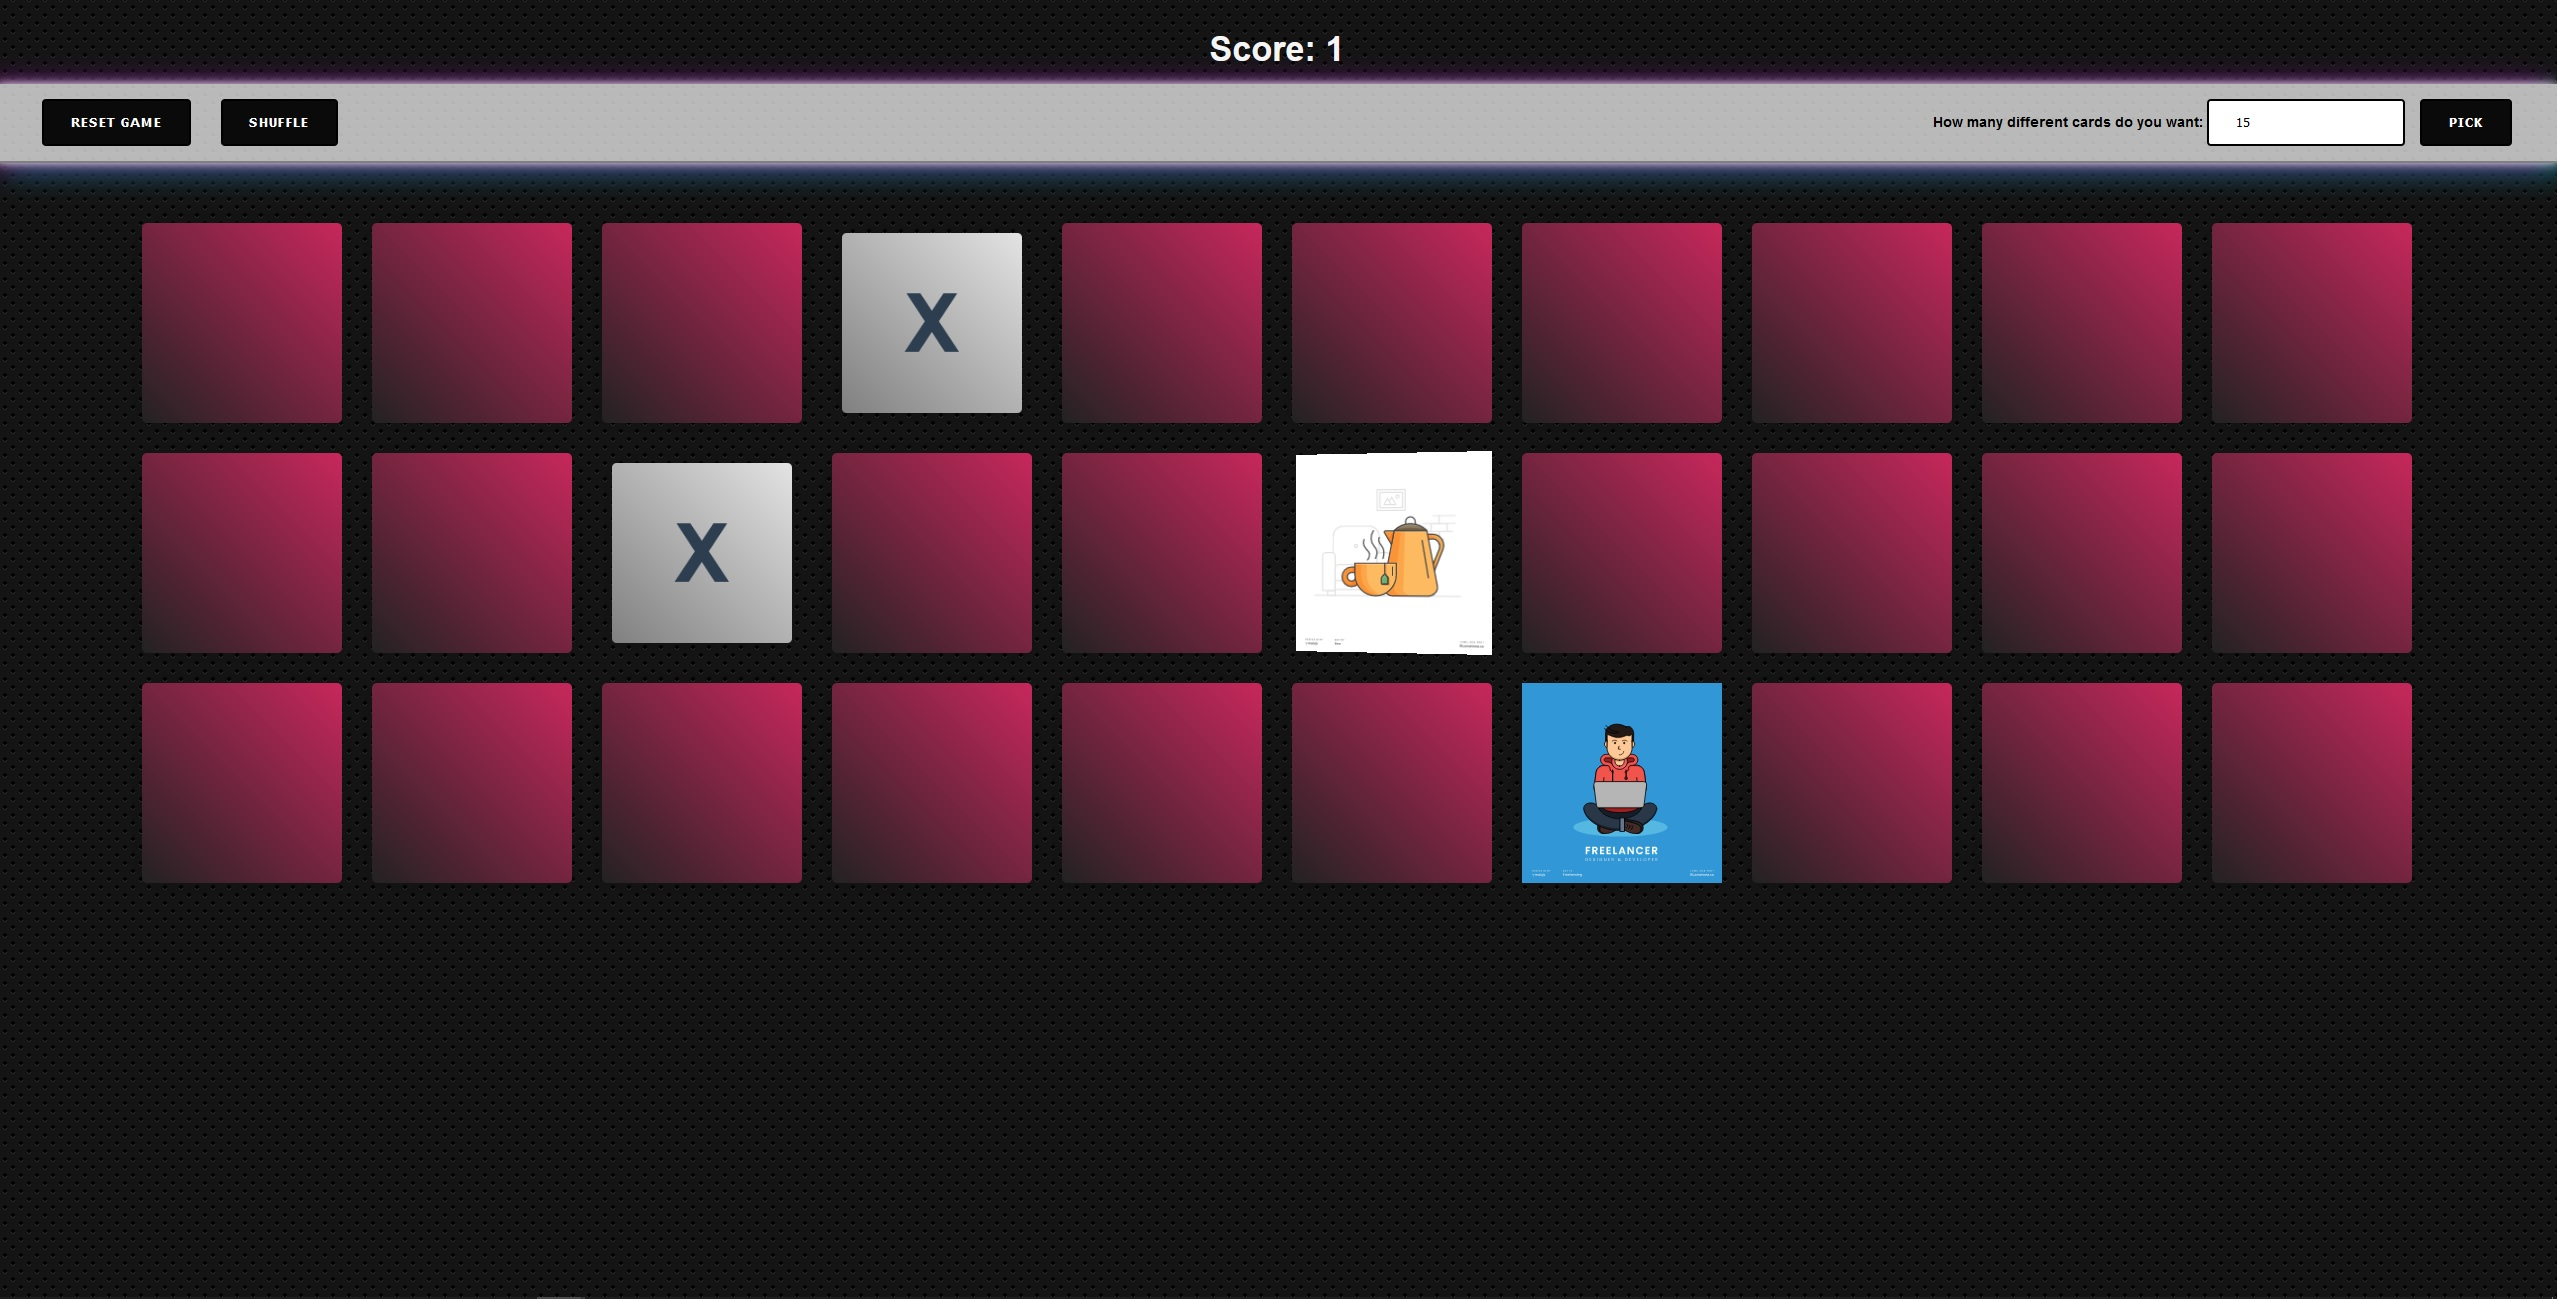
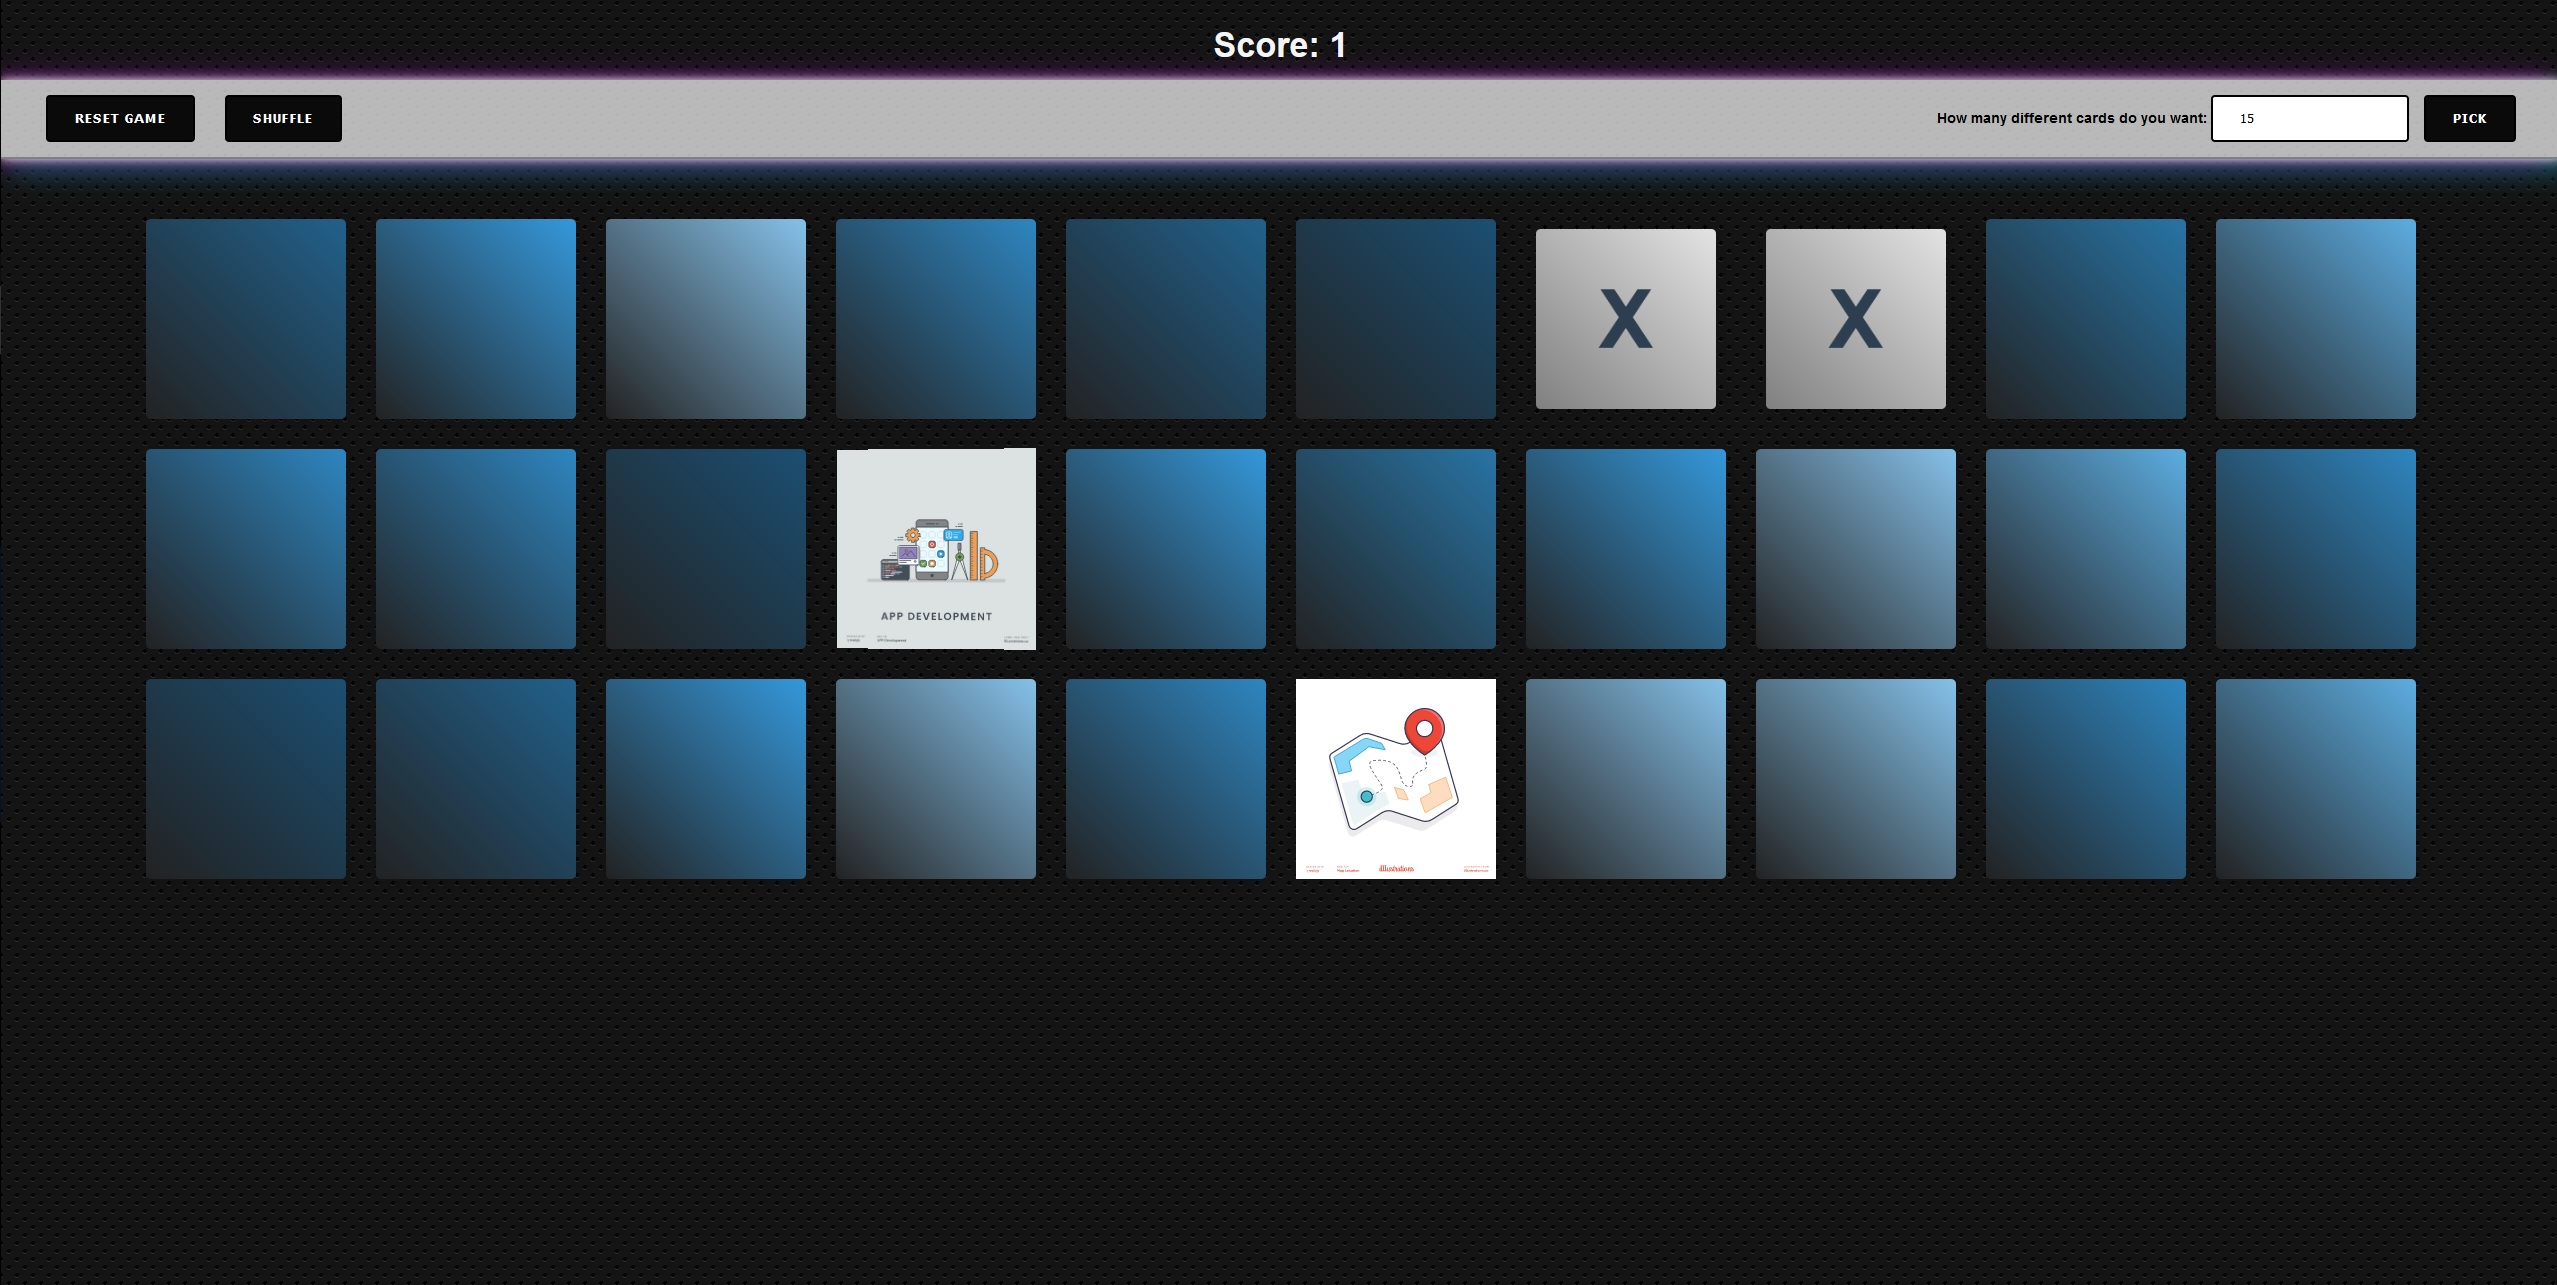
random front face pre karty

diff --git a/src/components/Card.vue b/src/components/Card.vue
@@ -1,7 +1,7 @@
 <template>
     <div class="card" :class="cardClasses" @click="flipCard">
         <div class="inner">
-            <div class="front"></div>
+            <div class="front" :style="'background: linear-gradient(45deg,#222,' + gradient + ')'"></div>
             <div class="back" :data-matchkey="cardData.matchKey">
                 <img :src="require('@/assets/' + cardImage + '')" alt="" class="image" style="max-width: 200px;">
             </div>
@@ -20,7 +20,8 @@
         },
         data() {
             return {
-                cardImage: this.cardData.img
+                cardImage: this.cardData.img,
+                gradient: this.getGradientColor(),
             }
         },
         computed: {
@@ -34,6 +35,11 @@
         methods: {
             flipCard: function () {
                 this.$emit('flipped', this.cardData.id);
+            },
+            getGradientColor: function () {
+                let colors = ['#1b4f72','#21618c','#2874a6','#2e86c1','#3498db','#5dade2','#85c1e9'];
+
+                return colors[Math.floor(Math.random() * colors.length)];
             }
         }
     }
@@ -64,7 +70,7 @@
     }
 
     .matched .inner .front {
-        background: linear-gradient(45deg, #808080, #e3e3e3);
+        background: linear-gradient(45deg, #808080, #e3e3e3) !important;
     }
 
     .matched .inner .front::before {
@@ -106,7 +112,7 @@
     }
 
     .front {
-        background: linear-gradient(45deg, #222, rgb(200, 39, 92));
+        /*background: linear-gradient(45deg, #222, rgb(200, 39, 92));*/
         z-index: 2;
     }
 
